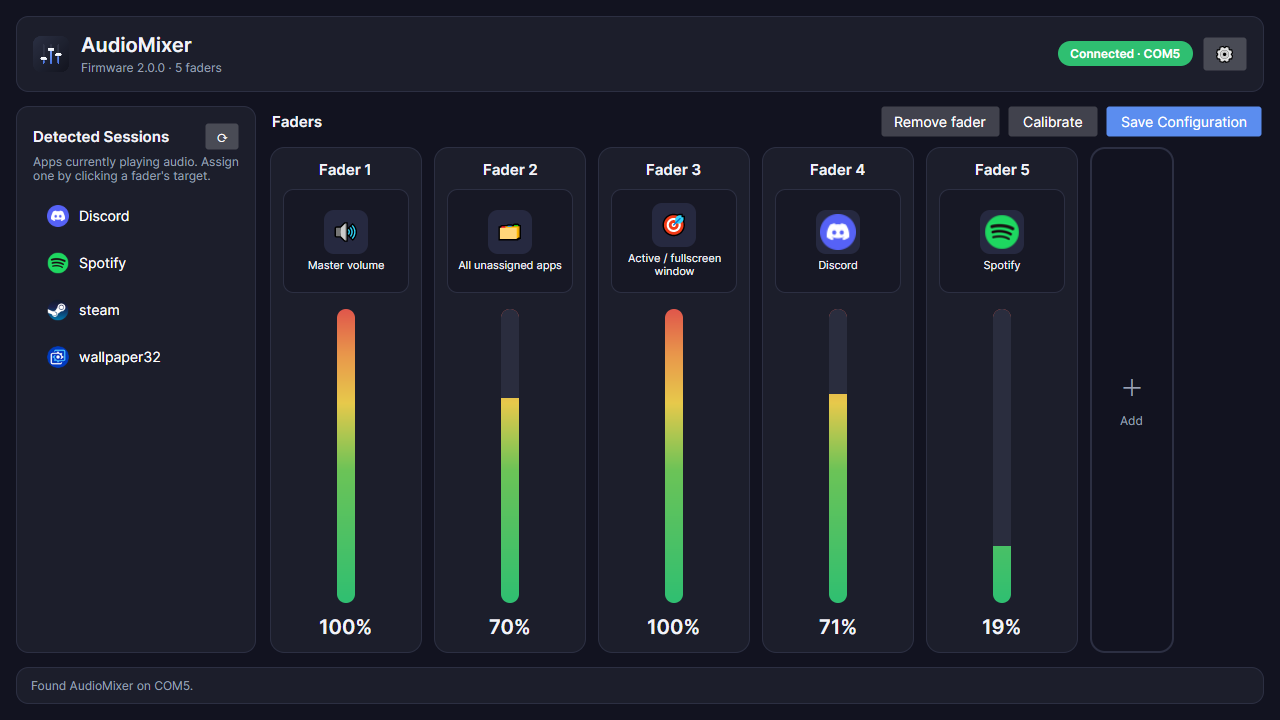
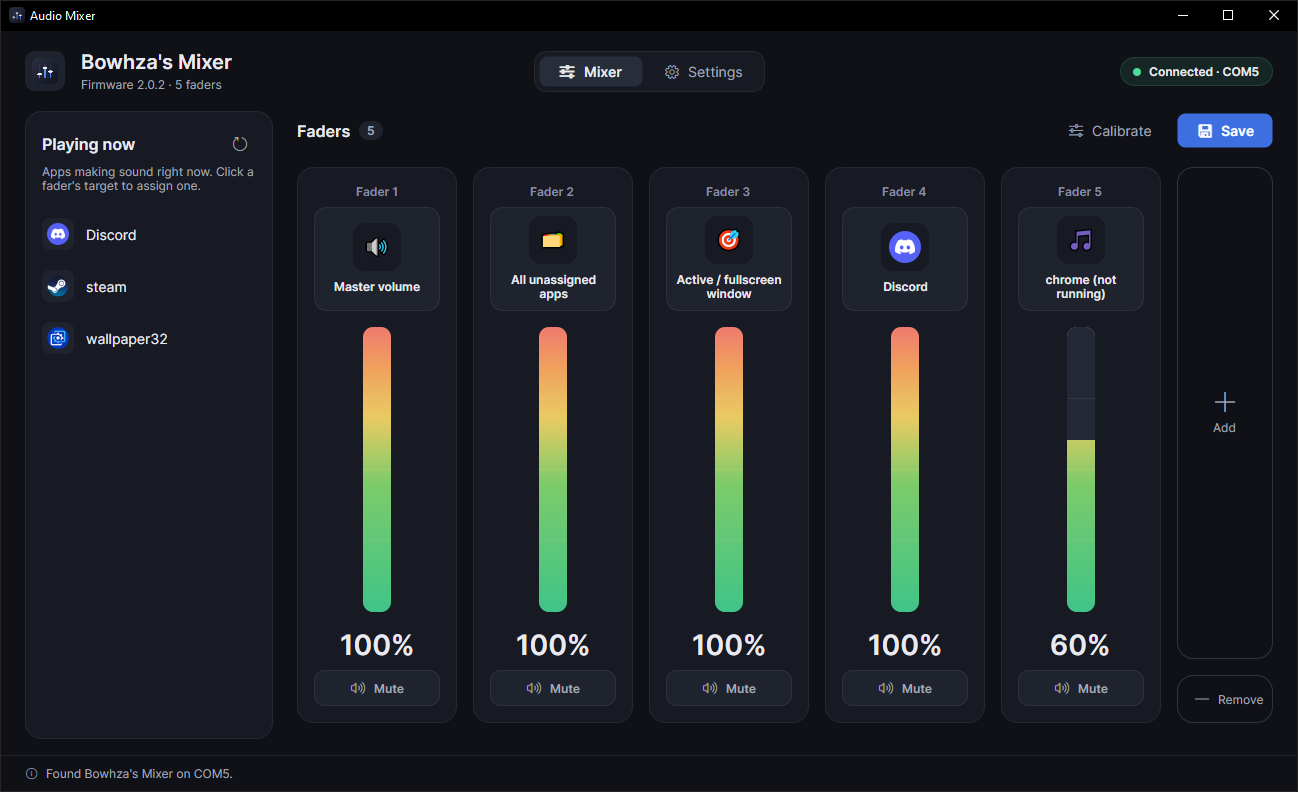
Update README screenshot and docs for the redesigned app

diff --git a/README.md b/README.md
@@ -11,7 +11,7 @@ This project should work on devices using the **ATMega328p MCU**, this includes 
 The materials required:
 
 - Compatible microcontroller.
-- Potentiomenters (Fader recommended).
+- Potentiometers (faders recommended).
 - Wire.
 - Breadboard (Optional but recommended).
 
@@ -39,28 +39,49 @@ Here is an assembled breadboard prototype with 5 sliders all connected to the **
 **Desktop Application**
 
 The driver is a modern **Avalonia (.NET 10)** app (`AudioMixer/`) with a dark
-interface and a vertical fader console. It:
-
-- **Auto-detects the mixer over USB**: scans serial ports, prefers known
-  USB-serial bridges (CH340 / FTDI / Arduino / CP210x), confirms the device with
-  an `ID?` handshake, and reconnects automatically on hot-plug.
-- **Assigns apps by clicking a fader**: click a fader's target to pick from a
-  list of the wildcards plus every app currently playing audio, each with its
-  icon. The chosen app's icon and name show on the fader.
-- **Shows live levels** on vertical bars with a fixed green → red gradient.
-- **Calibrates each slider**: a guided mode maps a slider's real travel onto a
-  clean 0-100% (handy when a pot doesn't swing the full range).
-- **Adds / removes faders**, **renames the device**, and **tunes the jitter
-  filter**: all stored on the device's EEPROM (see the Serial Protocol below),
-  so they survive power cycles.
-- **Flashes the firmware** from the settings menu, with `avrdude` and the
-  firmware image bundled (no toolchain required).
-- **Syncs on connect**: asks the device for every slider's current position so
-  volumes and the UI match the hardware immediately.
-- Builds its fader rows dynamically from the device, runs in the system tray,
-  and keeps the same `config.json` format as before.
+interface and a vertical fader console. It has two pages, **Mixer** and
+**Settings**, and lives in the system tray.
 
 ![Image of the audio driver application interface](/assets/Audio-Driver.png)
+
+**Mixer page**
+
+- **Assign apps by clicking a fader**: click a fader's target to pick from the
+  wildcards plus every app currently playing audio, each with its icon. Apps
+  that are assigned but closed stay listed as "(not running)".
+- **Live levels** on vertical meters with a fixed green → red gradient.
+- **Mute** any fader with one click. Its target is held at 0% while the slider
+  keeps tracking, and unmuting restores the slider's level.
+- **Calibrate** maps each slider's real travel onto a clean 0-100% (handy when
+  a pot doesn't swing the full range). Each fader shows the range it has
+  captured, and audio is left untouched until you finish.
+- **Add / Remove faders** (1-8, one per ADC channel). The count is stored on
+  the mixer, and the window resizes itself to fit.
+
+**Settings page**
+
+- **Connection**: find the mixer automatically or pick a port, and set the baud
+  rate. These save as soon as you change them.
+- **Mixer**: rename the device and tune the jitter filter. Both are stored on
+  the mixer's EEPROM, and **Apply** only enables when your value differs from
+  the device's.
+- **Firmware**: shows the device's and the bundled firmware versions, and
+  flashes the firmware with the bundled `avrdude` (no toolchain required).
+
+**Under the hood**
+
+- **USB auto-detection**: scans serial ports (skipping Bluetooth ones), prefers
+  known USB-serial bridges (CH340 / FTDI / Arduino / CP210x / PL2303), confirms
+  the device with an `ID?` handshake, and reconnects automatically when the
+  mixer is unplugged and plugged back in.
+- **Verified settings**: fader count, name and jitter filter changes are only
+  reported as saved once the mixer echoes them back, and are retried otherwise.
+- **Syncs on connect**: asks the mixer for every slider's position so volumes
+  and the UI match the hardware immediately.
+- **Firmware update notice**: when the bundled firmware is newer than the
+  mixer's, the top bar offers a one-click install.
+- **Single instance**: launching the app again brings the running window to the
+  front instead of opening a second copy that would fight over the COM port.
 
 ## Configuration File
 
@@ -81,8 +102,13 @@ The following is the configuration JSON file that is stored in the same director
 
 - `AutoDetect`: when `true`, the driver finds and connects to the mixer on its
   own. When `false` it uses `COMPort`.
+- `Applications`: what each fader controls, in fader order (see Wildcards
+  below). An empty string means unassigned.
 - `Calibration`: per-fader input range captured by the **Calibrate** button
   (maps each slider's real travel onto 0-100%). Optional.
+
+Connection settings are saved as soon as you change them on the Settings page.
+Fader assignments and calibration are saved with the **Save** button.
 
 ### Wildcards
 
@@ -92,8 +118,8 @@ Wildcards are used to assign multiple applications to the same slider.
 - `-` Controls all applications that are not assigned to a slider.
 - `!` Current Active Window/Fullscreen Window.
 
-To assign a specific application to a slider, just pick it from that fader's
-dropdown (it lists every app in the "Detected Sessions" list).
+To assign a specific application to a slider, click that fader's target and
+pick the app (the list includes every app shown under "Playing now").
 
 ## Serial Protocol
 
@@ -108,28 +134,39 @@ It also responds to these commands from the driver:
 - `ID?\n` → identify/handshake, used for USB auto-detection:
 
   ```json
-  { "Device": "AudioMixer", "Signature": "AudioMixer", "Protocol": 1, "Faders": 5, "Hysteresis": 3, "Firmware": "2.0.0" }
+  { "Device": "AudioMixer", "Signature": "AudioMixer", "Protocol": 1, "Faders": 5, "Hysteresis": 3, "Firmware": "2.0.2" }
   ```
 
   `Device` is the user-editable name, and `Signature` is a constant the driver
-  matches on, so auto-detection keeps working even after a rename.
+  matches on, so auto-detection keeps working even after a rename. The device
+  also sends this line once on boot.
 
 - `SYNC\n` → immediately resend the current value of every fader (sent by the
-  driver on connect).
+  driver on connect). The firmware also sends every fader once after booting.
 
 - `FADERS=n\n` → set the number of faders (1-8, one per ADC channel) and
   **persist it to the device's EEPROM**, then re-identify. Sent when you add or
-  remove a fader with the **＋ Add** / **Remove fader** buttons, so the count
-  survives power cycles.
+  remove a fader with the **Add** / **Remove** buttons, so the count survives
+  power cycles.
 
 - `NAME=x\n` → set the device's display name (up to 15 characters) and
-  **persist it to EEPROM**, then re-identify. Sent by the **Rename** box in the
-  settings menu.
+  **persist it to EEPROM**, then re-identify. Sent by **Settings → Mixer →
+  Name**.
 
 - `HYST=n\n` → set the hysteresis / jitter-filter threshold in ADC counts
   (1-64) and **persist it to EEPROM**, then re-identify. Raise it if a slider's
-  reading drifts while idle, or lower it for more responsiveness. Sent by the
-  **Jitter filter** slider in the settings menu.
+  reading drifts while idle, or lower it for more responsiveness. Sent by
+  **Settings → Mixer → Jitter filter**.
+
+Every write command is answered with the identify line, which the driver uses
+to confirm the change (and retries if it doesn't match). Malformed values are
+ignored rather than applied. Incoming bytes are buffered by a USART receive
+interrupt, so commands aren't lost while the mixer is busy sending readings.
+
+**Firmware version**: the version is stored in the flash image as the text
+`AMFW-VERSION:x.y.z`. The driver reads it from the bundled `firmware.hex` and
+compares it with the `Firmware` field above to decide whether an update is
+available. To release a new firmware, bump `FW_VERSION` in `src/main.c`.
 
 ## Running the Application
 
@@ -149,35 +186,36 @@ dotnet publish -c Release -r win-x64 --self-contained true \
 
 ### Flashing the Code
 
-> **Quickest option:** open the driver's **⚙ settings → Firmware → Flash
-> firmware**. The app ships with `avrdude` and the compiled `firmware.hex` and
-> flashes the connected board for you (no PlatformIO needed).
+> **Quickest option:** open the driver's **Settings → Firmware** and click
+> **Reflash** (or **Install update** when a newer firmware is available). The
+> app ships with `avrdude` and the compiled `firmware.hex` and flashes the
+> connected board for you (no PlatformIO needed).
 
 To build and flash the firmware yourself, the Platform-IO IDE [extension](https://marketplace.visualstudio.com/items?itemName=platformio.platformio-ide) is required for VSCode.
 
-Once the extenstion is installed and your microcontroller is connected to your computer follow the steps below:
+Once the extension is installed and your microcontroller is connected to your computer follow the steps below:
 
 1. Click on the Platform-IO Icon on the sidebar. Followed by the "`Pick a folder`" button to open the project folder.
 
 ![Image of the sidebar](/assets/Platform-IO.png)
 
-2. Navigate to where the project folder is downloaded, make sure that it is exctracted from the zip file.
+2. Navigate to where the project folder is downloaded, make sure that it is extracted from the zip file.
 
 ![Image of the open folder file explorer](/assets/Open-Folder.png)
 
 3. Select the folder and press `Select Folder` in the bottom right corner.
 
-4. With the folder open, press `Ctrl + Shift + B` to open the command pallette and select `PlatformIO: Build`.
+4. With the folder open, press `Ctrl + Shift + B` to open the command palette and select `PlatformIO: Build`.
 
 ![Image of the command window open in VSCode](/assets/Build-Project.png)
 
 5. If the project has built successfully, you will see a clear message in the terminal. You can continue to the next step.
 
-6. Press `Ctrl + ALT + U` to upload the code to the microcontroller. Below is an image it the process completed successfully.
+6. Press `Ctrl + ALT + U` to upload the code to the microcontroller. Below is an image of the process completing successfully.
 
 ![Image of the upload success](/assets/Upload-Success.png)
 
-7. The code is now flashed to the device, and you can run the provided executable.
+7. The code is now flashed to the device, and you can run the desktop app.
 
 ### Changing the board
 
@@ -221,6 +259,10 @@ Things that can be improved, added or fixed:
 - [x] Rename the device from the app.
 - [x] Flash the firmware from inside the app.
 - [x] Make the hysteresis threshold configurable over serial (`HYST=`, EEPROM).
+- [x] Per-fader mute.
+- [x] Firmware update notice and one-click install.
+- [x] Verify settings writes against the device's echo.
+- [x] Prevent multiple app instances from fighting over the COM port.
 - [ ] Add support for SSD1306 OLED to display various information on the mixer.
 - [ ] Add support for linux.
 - [ ] Other features...
